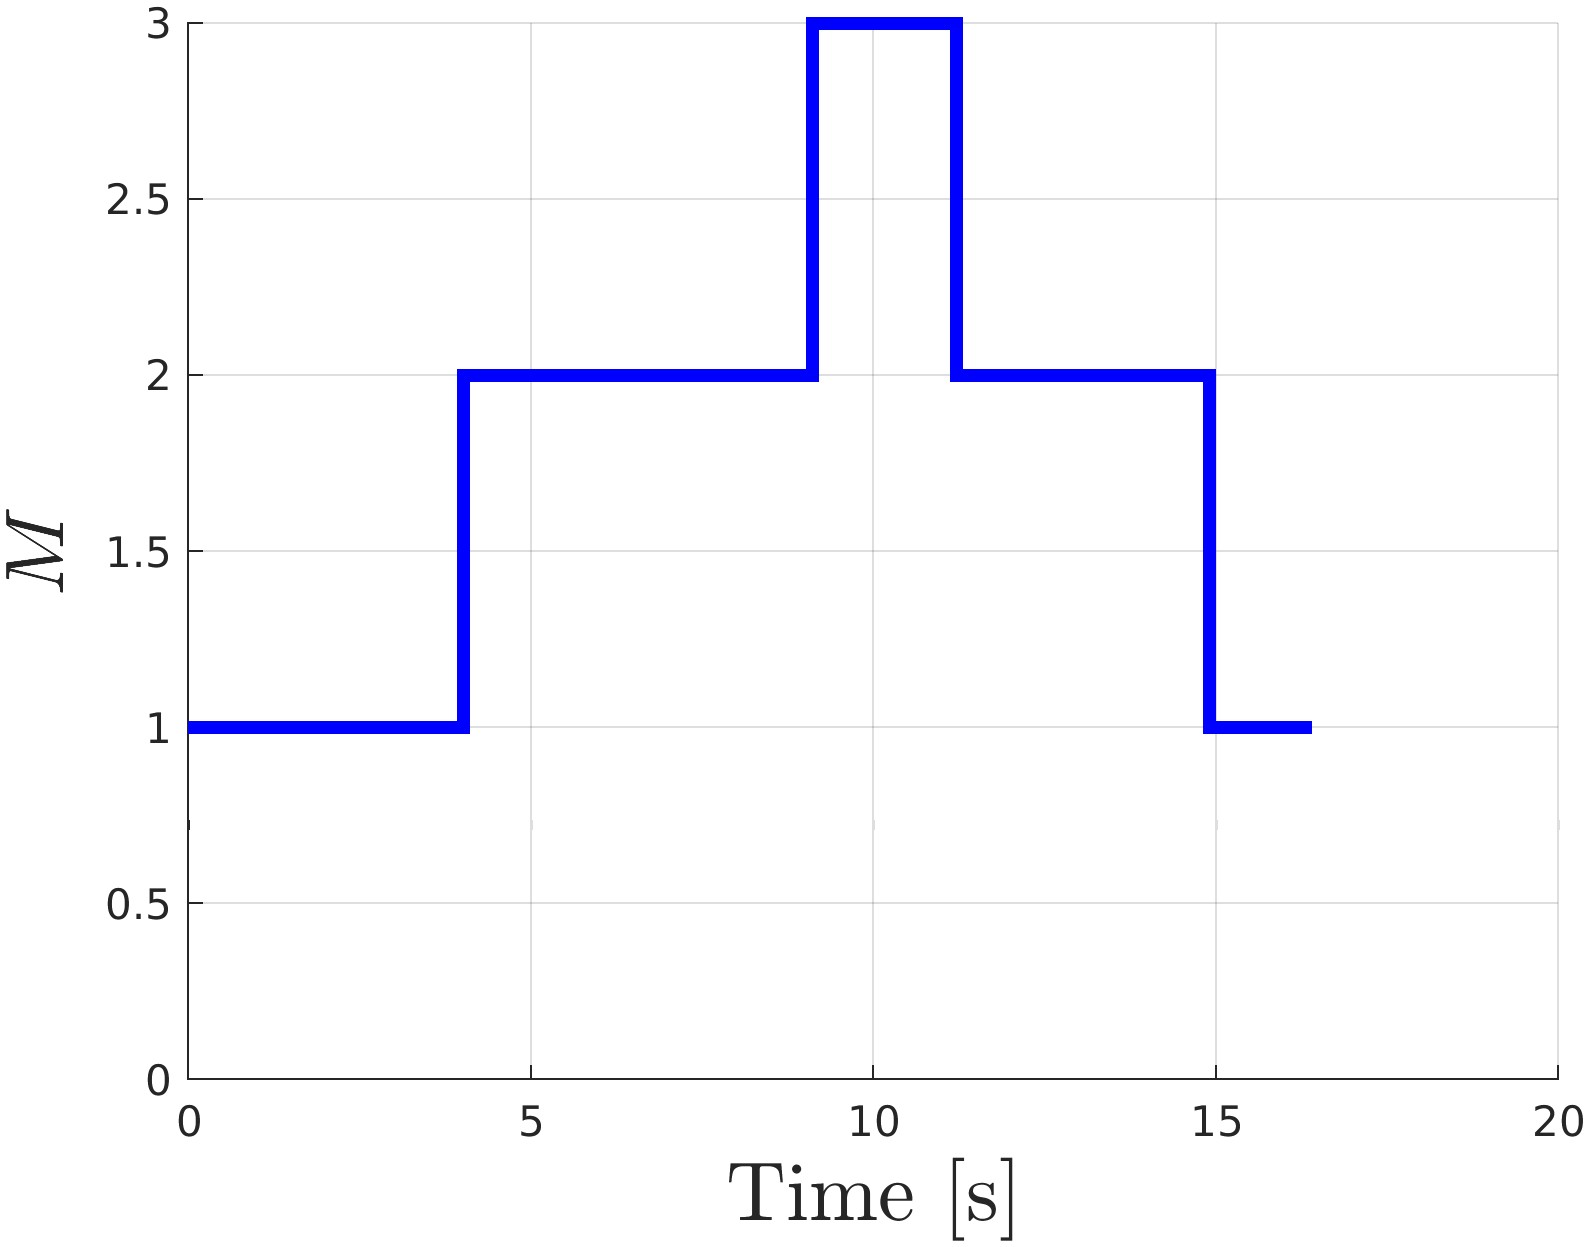
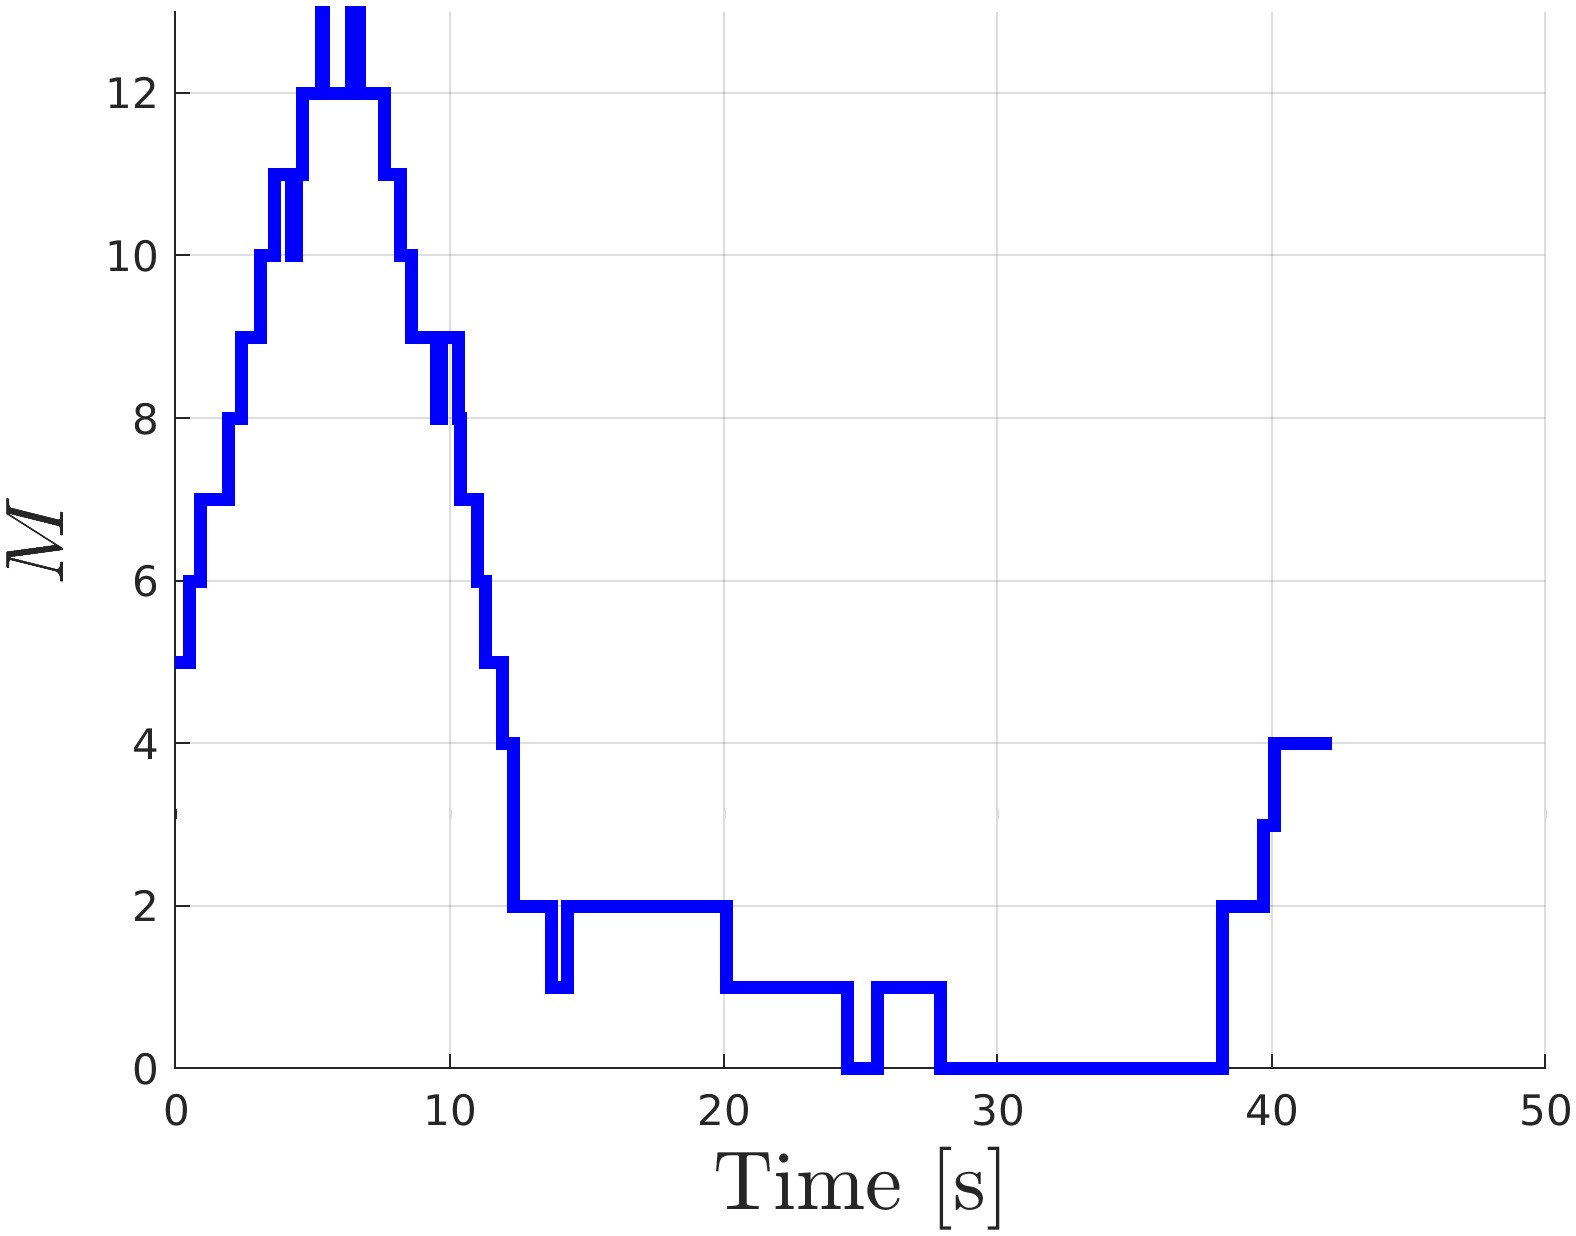
feat: display also minimum distance obstacle-vertex

Changed region(s): [[0.0, 0.0, 0.9949, 1.0]]

diff --git a/MatlabCodes/terminalDisp.m b/MatlabCodes/terminalDisp.m
@@ -19,5 +19,6 @@ disp( "Max ET [s]       : " + max_time_exe + newline + ...
       "Min ET N_s [s]   : " + mean1ToDisp + newline + ...
       "Total ET [s]     : " + tot_ex_time + newline + ...
       "Max f_e [mm]      : " + max_form_err*10^3 + newline + ...
-      "Mean f_e [mm]     : " + mean_form_err*10^3 + newline ...
+      "Mean f_e [mm]     : " + mean_form_err*10^3 + newline + ...
+      "Min distance [mm] : " + min_obs_dist*10^3 + newline ...
     )

diff --git a/MatlabCodes/dummy_sim.m b/MatlabCodes/dummy_sim.m
@@ -1,9 +1,9 @@
 clear all;
 close all;
 
-plotting = false;
+plotting = true;
 alg_fmincon = 'active-set';
-fixed_horizon = true;
+fixed_horizon = false;
 sim_perception_range = true;
 sim_noise = false;
 sigma_2 = (0.15/3)^2;
